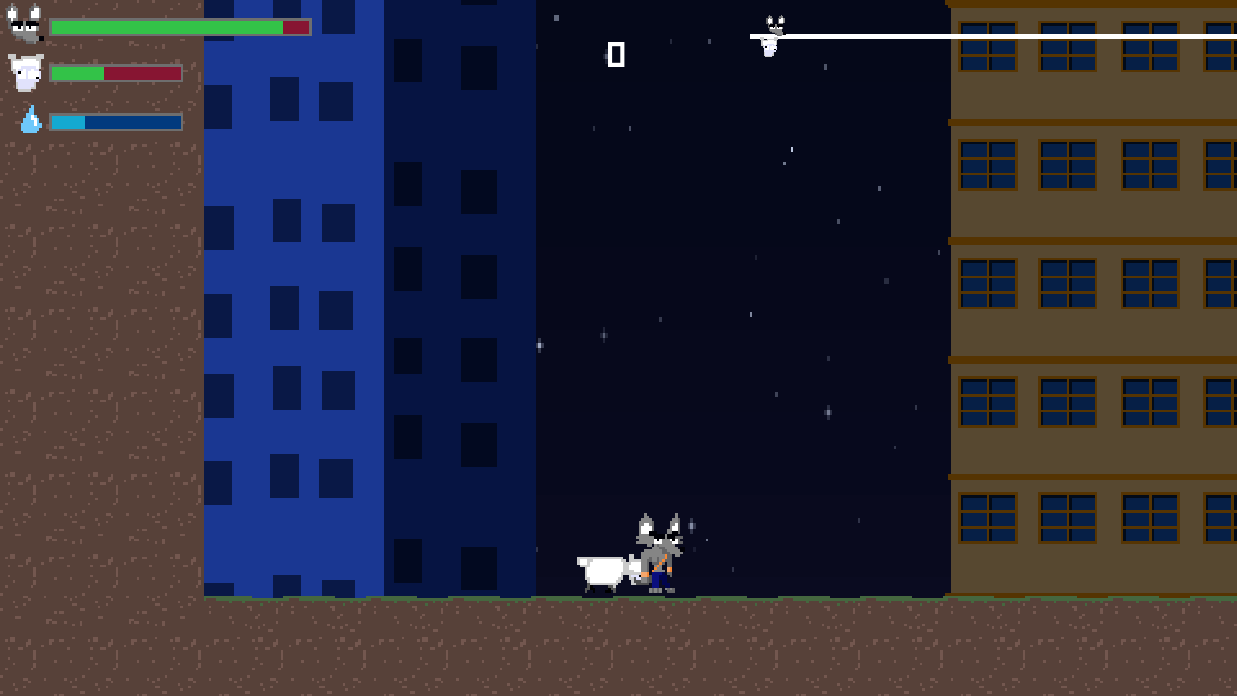
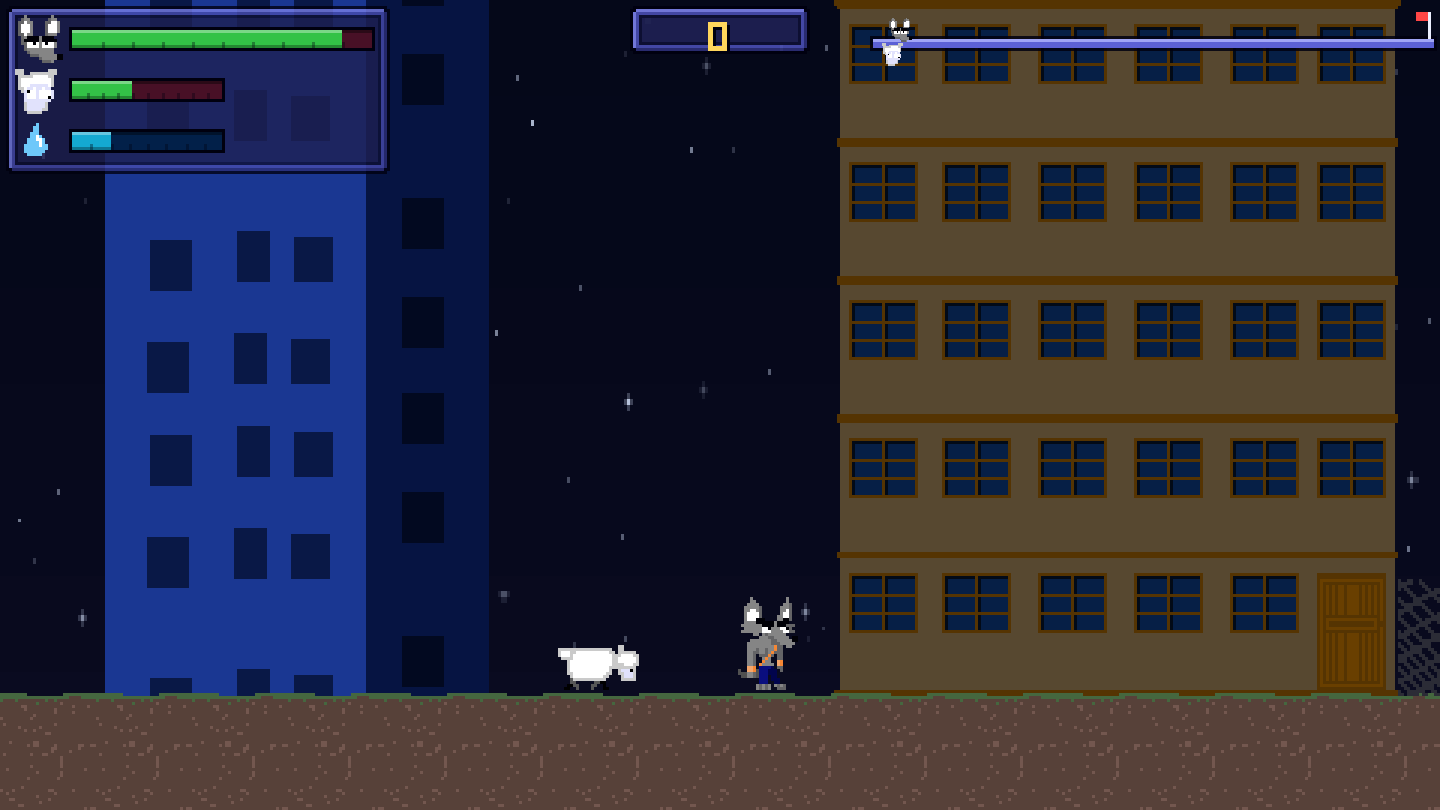
upd

diff --git a/docs/app_saveTheSheep.html b/docs/app_saveTheSheep.html
@@ -10,7 +10,7 @@
   <link rel="preconnect" href="https://fonts.googleapis.com">
   <link rel="preconnect" href="https://fonts.gstatic.com" crossorigin>
   <link href="https://fonts.googleapis.com/css2?family=Space+Grotesk:wght@500;600;700&family=Inter:wght@400;500;600;700&display=swap" rel="stylesheet">
-  <link rel="stylesheet" href="css/theme.css?v=20261010061436">
+  <link rel="stylesheet" href="css/theme.css?v=20261011104045">
 
   <!-- Google tag (gtag.js) -->
   <script async src="https://www.googletagmanager.com/gtag/js?id=G-ZVG5R211FM"></script>
@@ -126,7 +126,7 @@
         <div class="project-body">
             
 <figure class="project-media">
-<img src="/images/promo/games/saveTheSheep/save_the_sheep.gif" alt="Gordon court dans la ville de nuit, arrose un T-Rex avec son pistolet à eau et soulève le mouton grâce à l'ascenseur de la grue" />
+<img src="/images/promo/games/saveTheSheep/save_the_sheep.gif" alt="Gordon saute par-dessus un portail pour l'ouvrir au mouton, arrose un T-Rex avec son pistolet à eau, puis enfourche sa moto dans le niveau bonus" />
 </figure>
 <p>Ce mouton-là n'a peur de rien… et c'est bien le problème ! Il fonce droit devant lui, sans se soucier des pièges ni du T-Rex qui rôde.</p>
 <p>Gordon n'a qu'une mission : le protéger. Dégagez le chemin, écartez les monstres et guidez-le jusqu'à la sortie de chaque niveau. Si le mouton ne s'en sort pas, vous non plus !</p>
@@ -134,14 +134,19 @@
 <li>Une ville de nuit à parcourir : toits, rues et chantiers sous un ciel étoilé</li>
 <li>Un pistolet à eau pour arroser les ennemis (dinosaures compris !) avant qu'ils n'atteignent le mouton</li>
 <li>Des portails à ouvrir et des ascenseurs à activer pour faire passer votre protégé</li>
-<li>Une mini-carte pour ne jamais le perdre de vue, et un niveau bonus pour les plus doués</li>
+<li>Une mini-carte pour ne jamais le perdre de vue</li>
+<li>Un niveau bonus à moto : sautez les rochers et attrapez l'eau et les desserts avant la fin du chrono</li>
+<li>Deux niveaux de difficulté et un tableau des meilleurs scores</li>
+<li>Musiques et bruitages rétro, avec pause et coupure du son à tout moment</li>
 <li>Jouable au clavier, à la manette et avec des commandes tactiles</li>
 <li>Gratuit, open source, disponible sur Linux (Flathub, Snapcraft) et jouable dans le navigateur sur itch.io</li>
 </ul>
 <h3>Screenshots</h3>
 <p><img src="/images/screenshots/games/saveTheSheep/level_01_start.png" alt="Début du niveau 1" />
+<img src="/images/screenshots/games/saveTheSheep/level_01_gate.png" alt="Sautez le portail, puis ouvrez-le" />
 <img src="/images/screenshots/games/saveTheSheep/level_01_trex.png" alt="Attention au T-Rex !" />
-<img src="/images/screenshots/games/saveTheSheep/level_01_elevator.png" alt="L&#039;ascenseur de la grue" /></p>        </div>
+<img src="/images/screenshots/games/saveTheSheep/bonus_level.png" alt="Le niveau bonus à moto" />
+<img src="/images/screenshots/games/saveTheSheep/menu.png" alt="Menu principal" /></p>        </div>
     </div>
 
     </div>

diff --git a/docs/app_typeToFight.html b/docs/app_typeToFight.html
@@ -10,7 +10,7 @@
   <link rel="preconnect" href="https://fonts.googleapis.com">
   <link rel="preconnect" href="https://fonts.gstatic.com" crossorigin>
   <link href="https://fonts.googleapis.com/css2?family=Space+Grotesk:wght@500;600;700&family=Inter:wght@400;500;600;700&display=swap" rel="stylesheet">
-  <link rel="stylesheet" href="css/theme.css?v=20261010061436">
+  <link rel="stylesheet" href="css/theme.css?v=20261011104045">
 
   <!-- Google tag (gtag.js) -->
   <script async src="https://www.googletagmanager.com/gtag/js?id=G-ZVG5R211FM"></script>
@@ -102,7 +102,6 @@
 
     <div class="project-hero-text">
         <span class="chip">Jeu</span>
-                    <span class="status-badge">En développement</span>
                 <h1>Type to Fight</h1>
         <p class="project-lead">Apprenez la dactylographie en combattant : touche par touche en mode Entraînement, puis des mots entiers en mode Arcade pour frapper les ennemis.</p>
 
@@ -116,6 +115,7 @@
             
             
             
+                            <a href="https://snapcraft.io/org-dupot-typetofight" target="_blank"><img src="css/images/snap-store-black.png" alt="Disponible sur le Snap Store" /></a>
             
         </div>
     </div>
@@ -127,7 +127,6 @@
 <figure class="project-media">
 <img src="/images/promo/games/typeToFight/training.gif" alt="Mode Entraînement : la touche à taper tombe au centre de l'écran et le héros frappe les ennemis" />
 </figure>
-<p><strong>🚧 Projet en cours de développement</strong> : le jeu est déjà jouable dans le navigateur, mais il évolue encore (nouvelles fonctionnalités, ajustements, corrections). Vos retours sont les bienvenus !</p>
 <p>Les ennemis arrivent sans relâche par la droite. La prochaine touche à taper tombe au centre de l'écran : tapez-la pour frapper l'ennemi, ou foncez vers lui s'il est encore loin. Trop d'erreurs, et ils vous rattrapent !</p>
 <p>Un jeu d'arcade pour apprendre la dactylographie en s'amusant, avec deux modes de jeu :</p>
 <ul>
@@ -147,7 +146,7 @@
 <li>Musique chiptune et effets sonores 8-bit pour chaque touche, coup et niveau (désactivables séparément)</li>
 <li>Une police pixel facile à lire : les caractères qui se ressemblent restent distincts (5 et S, 0 et O…) et tous les accents français s'affichent</li>
 <li>Disponible en français et en anglais</li>
-<li>Gratuit, open source, jouable dans le navigateur sur itch.io ; les versions Flathub et Snapcraft arriveront une fois le développement plus avancé</li>
+<li>Gratuit, open source, disponible sur Linux (Snapcraft) et jouable dans le navigateur sur itch.io</li>
 </ul>
 <h3>Screenshots</h3>
 <p><img src="/images/screenshots/games/typeToFight/Screenshot_01_training.png" alt="Mode Entraînement" />

diff --git a/docs/games.html b/docs/games.html
@@ -10,7 +10,7 @@
   <link rel="preconnect" href="https://fonts.googleapis.com">
   <link rel="preconnect" href="https://fonts.gstatic.com" crossorigin>
   <link href="https://fonts.googleapis.com/css2?family=Space+Grotesk:wght@500;600;700&family=Inter:wght@400;500;600;700&display=swap" rel="stylesheet">
-  <link rel="stylesheet" href="css/theme.css?v=20261010061436">
+  <link rel="stylesheet" href="css/theme.css?v=20261011104045">
 
   <!-- Google tag (gtag.js) -->
   <script async src="https://www.googletagmanager.com/gtag/js?id=G-ZVG5R211FM"></script>
@@ -106,8 +106,7 @@
                     <a class="card card-link" href="app_typeToFight.html">
                                 <div class="card-image card-image-thumbnail">
                     <img src="images/thumbnails/games/typeToFight.jpg" alt="Type to Fight" loading="lazy">
-                                                            <span class="status-badge">En développement</span>
-                                    </div>
+                                                    </div>
                 <div class="card-body">
                     <h3 class="card-title">Type to Fight</h3>
                     <p>Apprenez la dactylographie en combattant : touche par touche en mode Entraînement, puis des mots entiers en mode Arcade pour frapper les ennemis.</p>

diff --git a/docs/index.html b/docs/index.html
@@ -10,7 +10,7 @@
   <link rel="preconnect" href="https://fonts.googleapis.com">
   <link rel="preconnect" href="https://fonts.gstatic.com" crossorigin>
   <link href="https://fonts.googleapis.com/css2?family=Space+Grotesk:wght@500;600;700&family=Inter:wght@400;500;600;700&display=swap" rel="stylesheet">
-  <link rel="stylesheet" href="css/theme.css?v=20261010061436">
+  <link rel="stylesheet" href="css/theme.css?v=20261011104045">
 
   <!-- Google tag (gtag.js) -->
   <script async src="https://www.googletagmanager.com/gtag/js?id=G-ZVG5R211FM"></script>
@@ -136,8 +136,7 @@
                     <a class="card card-link" href="app_typeToFight.html">
                                 <div class="card-image card-image-thumbnail">
                     <img src="images/thumbnails/games/typeToFight.jpg" alt="Type to Fight" loading="lazy">
-                                                            <span class="status-badge">En développement</span>
-                                    </div>
+                                                    </div>
                 <div class="card-body">
                     <h3 class="card-title">Type to Fight</h3>
                     <p>Apprenez la dactylographie en combattant : touche par touche en mode Entraînement, puis des mots entiers en mode Arcade pour frapper les ennemis.</p>

diff --git a/docs/tutorial_how-to-publish-on-flatpak.html b/docs/tutorial_how-to-publish-on-flatpak.html
@@ -10,7 +10,7 @@
   <link rel="preconnect" href="https://fonts.googleapis.com">
   <link rel="preconnect" href="https://fonts.gstatic.com" crossorigin>
   <link href="https://fonts.googleapis.com/css2?family=Space+Grotesk:wght@500;600;700&family=Inter:wght@400;500;600;700&display=swap" rel="stylesheet">
-  <link rel="stylesheet" href="css/theme.css?v=20261010061436">
+  <link rel="stylesheet" href="css/theme.css?v=20261011104045">
 
   <!-- Google tag (gtag.js) -->
   <script async src="https://www.googletagmanager.com/gtag/js?id=G-ZVG5R211FM"></script>
@@ -108,7 +108,7 @@
 <p>Sur votre ordinateur</p>
 <pre><code>mkdir github
 cd github
-git clone github.com/votre_identifiant_github/votre_jeu.git
+git clone --branch=new-pr https://github.com/votre_identifiant_github/flathub.git
 cd votre_jeu</code></pre>
 <p>nous allons ici créer l'arborescence suivante, histoire d'organiser le tout proprement</p>
 <pre><code>mkdir -p export/linux/flatpak

diff --git a/docs/about.html b/docs/about.html
@@ -10,7 +10,7 @@
   <link rel="preconnect" href="https://fonts.googleapis.com">
   <link rel="preconnect" href="https://fonts.gstatic.com" crossorigin>
   <link href="https://fonts.googleapis.com/css2?family=Space+Grotesk:wght@500;600;700&family=Inter:wght@400;500;600;700&display=swap" rel="stylesheet">
-  <link rel="stylesheet" href="css/theme.css?v=20261010061436">
+  <link rel="stylesheet" href="css/theme.css?v=20261011104045">
 
   <!-- Google tag (gtag.js) -->
   <script async src="https://www.googletagmanager.com/gtag/js?id=G-ZVG5R211FM"></script>

diff --git a/docs/app_beatMatchToPass.html b/docs/app_beatMatchToPass.html
@@ -10,7 +10,7 @@
   <link rel="preconnect" href="https://fonts.googleapis.com">
   <link rel="preconnect" href="https://fonts.gstatic.com" crossorigin>
   <link href="https://fonts.googleapis.com/css2?family=Space+Grotesk:wght@500;600;700&family=Inter:wght@400;500;600;700&display=swap" rel="stylesheet">
-  <link rel="stylesheet" href="css/theme.css?v=20261010061436">
+  <link rel="stylesheet" href="css/theme.css?v=20261011104045">
 
   <!-- Google tag (gtag.js) -->
   <script async src="https://www.googletagmanager.com/gtag/js?id=G-ZVG5R211FM"></script>

diff --git a/docs/app_carnetEntrainement.html b/docs/app_carnetEntrainement.html
@@ -10,7 +10,7 @@
   <link rel="preconnect" href="https://fonts.googleapis.com">
   <link rel="preconnect" href="https://fonts.gstatic.com" crossorigin>
   <link href="https://fonts.googleapis.com/css2?family=Space+Grotesk:wght@500;600;700&family=Inter:wght@400;500;600;700&display=swap" rel="stylesheet">
-  <link rel="stylesheet" href="css/theme.css?v=20261010061436">
+  <link rel="stylesheet" href="css/theme.css?v=20261011104045">
 
   <!-- Google tag (gtag.js) -->
   <script async src="https://www.googletagmanager.com/gtag/js?id=G-ZVG5R211FM"></script>

diff --git a/docs/app_dupotDevTools.html b/docs/app_dupotDevTools.html
@@ -10,7 +10,7 @@
   <link rel="preconnect" href="https://fonts.googleapis.com">
   <link rel="preconnect" href="https://fonts.gstatic.com" crossorigin>
   <link href="https://fonts.googleapis.com/css2?family=Space+Grotesk:wght@500;600;700&family=Inter:wght@400;500;600;700&display=swap" rel="stylesheet">
-  <link rel="stylesheet" href="css/theme.css?v=20261010061436">
+  <link rel="stylesheet" href="css/theme.css?v=20261011104045">
 
   <!-- Google tag (gtag.js) -->
   <script async src="https://www.googletagmanager.com/gtag/js?id=G-ZVG5R211FM"></script>

diff --git a/docs/app_dupotEasyFlatpak.html b/docs/app_dupotEasyFlatpak.html
@@ -10,7 +10,7 @@
   <link rel="preconnect" href="https://fonts.googleapis.com">
   <link rel="preconnect" href="https://fonts.gstatic.com" crossorigin>
   <link href="https://fonts.googleapis.com/css2?family=Space+Grotesk:wght@500;600;700&family=Inter:wght@400;500;600;700&display=swap" rel="stylesheet">
-  <link rel="stylesheet" href="css/theme.css?v=20261010061436">
+  <link rel="stylesheet" href="css/theme.css?v=20261011104045">
 
   <!-- Google tag (gtag.js) -->
   <script async src="https://www.googletagmanager.com/gtag/js?id=G-ZVG5R211FM"></script>

diff --git a/docs/app_dupotFileBrowser.html b/docs/app_dupotFileBrowser.html
@@ -10,7 +10,7 @@
   <link rel="preconnect" href="https://fonts.googleapis.com">
   <link rel="preconnect" href="https://fonts.gstatic.com" crossorigin>
   <link href="https://fonts.googleapis.com/css2?family=Space+Grotesk:wght@500;600;700&family=Inter:wght@400;500;600;700&display=swap" rel="stylesheet">
-  <link rel="stylesheet" href="css/theme.css?v=20261010061436">
+  <link rel="stylesheet" href="css/theme.css?v=20261011104045">
 
   <!-- Google tag (gtag.js) -->
   <script async src="https://www.googletagmanager.com/gtag/js?id=G-ZVG5R211FM"></script>

diff --git a/docs/app_dupotStaticGenerationFramework.html b/docs/app_dupotStaticGenerationFramework.html
@@ -10,7 +10,7 @@
   <link rel="preconnect" href="https://fonts.googleapis.com">
   <link rel="preconnect" href="https://fonts.gstatic.com" crossorigin>
   <link href="https://fonts.googleapis.com/css2?family=Space+Grotesk:wght@500;600;700&family=Inter:wght@400;500;600;700&display=swap" rel="stylesheet">
-  <link rel="stylesheet" href="css/theme.css?v=20261010061436">
+  <link rel="stylesheet" href="css/theme.css?v=20261011104045">
 
   <!-- Google tag (gtag.js) -->
   <script async src="https://www.googletagmanager.com/gtag/js?id=G-ZVG5R211FM"></script>
